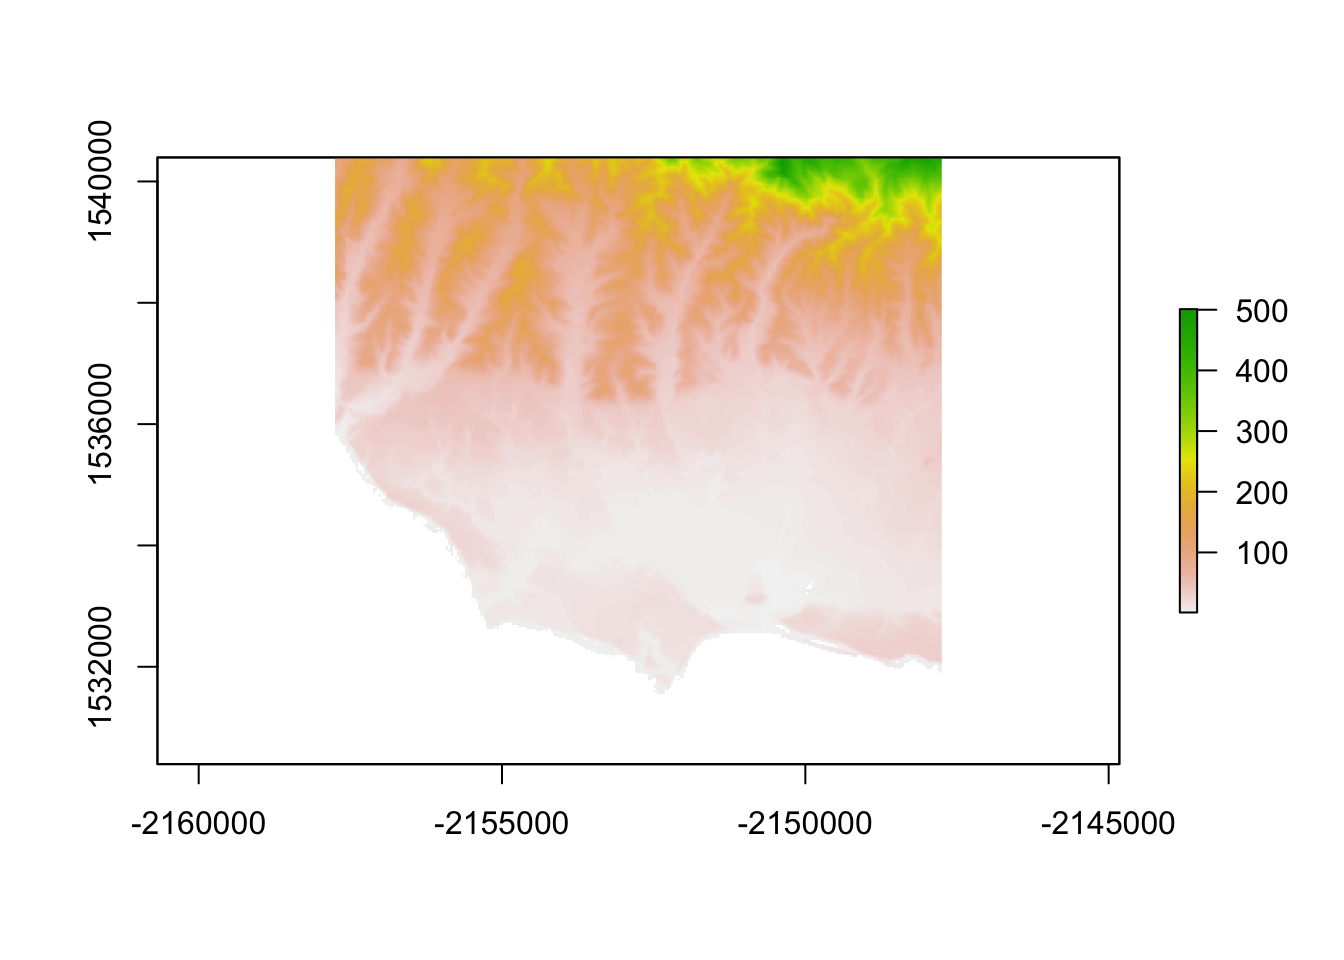
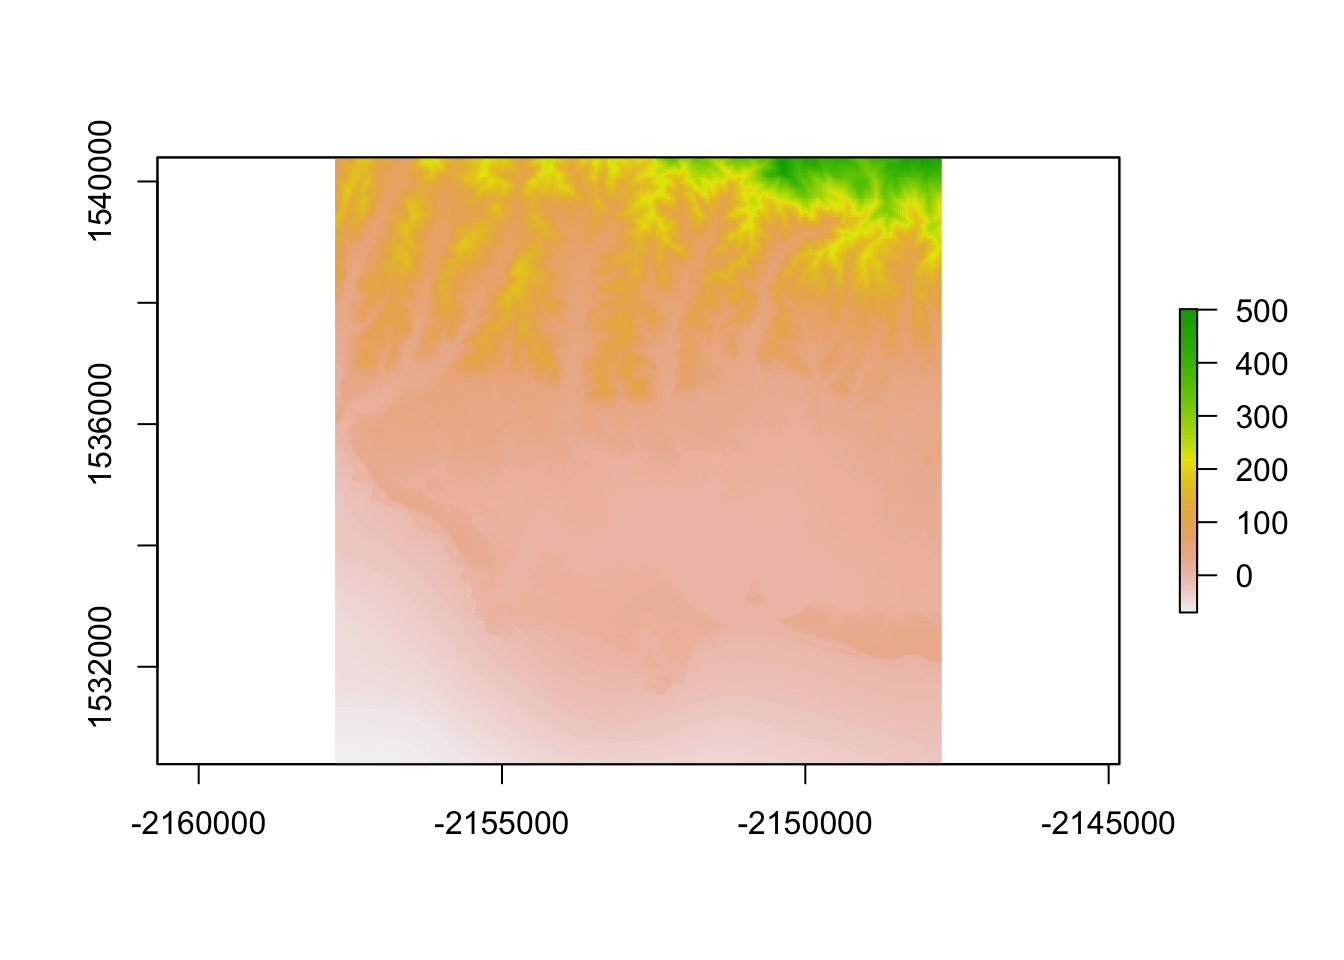
fix error

Changed region(s): [[0.25, 0.1562, 0.7188, 0.8125], [0.9062, 0.375, 0.9688, 0.625]]

diff --git a/day18.html b/day18.html
@@ -414,7 +414,7 @@ plot(ocean_cut, col = viridis::viridis(256))</code></pre>
 ## extent     : -2157752, -2147751, 1530395, 1540396  (xmin, xmax, ymin, ymax)
 ## crs        : +proj=aea +lat_0=23 +lon_0=-96 +lat_1=29.5 +lat_2=45.5 +x_0=0 +y_0=0 +datum=NAD83 +units=m +no_defs 
 ## names      : elevation, land.mask, terrain, topography 
-## min values :         1,         1,       1,          0 
+## min values :       -70,         1,       1,          0 
 ## max values :       501,         1,     501,          5</code></pre>
 <pre class="r"><code>plot(s, col = viridis::viridis(256))</code></pre>
 <p><img src="day18_files/figure-html/unnamed-chunk-2-4.png" width="672" /></p>

diff --git a/day17.html b/day17.html
@@ -382,9 +382,11 @@ library(raster)</code></pre>
 ##                                x
 ## 1 POLYGON ((-2157749 1530385,...</code></pre>
 <pre class="r"><code>elev = get_elev_raster(bb, z = 11) %&gt;% 
-  crop(bb) %&gt;%
-  plot()</code></pre>
+  crop(bb)
+
+plot(elev)</code></pre>
 <p><img src="day17_files/figure-html/unnamed-chunk-2-1.png" width="672" /></p>
+<pre class="r"><code>writeRaster(elev, filename = &quot;/Users/xingxin/Github/geog176a-summer-2020-lab1/goletaelev.tif&quot;, overwrite = TRUE)</code></pre>
 
 
 
